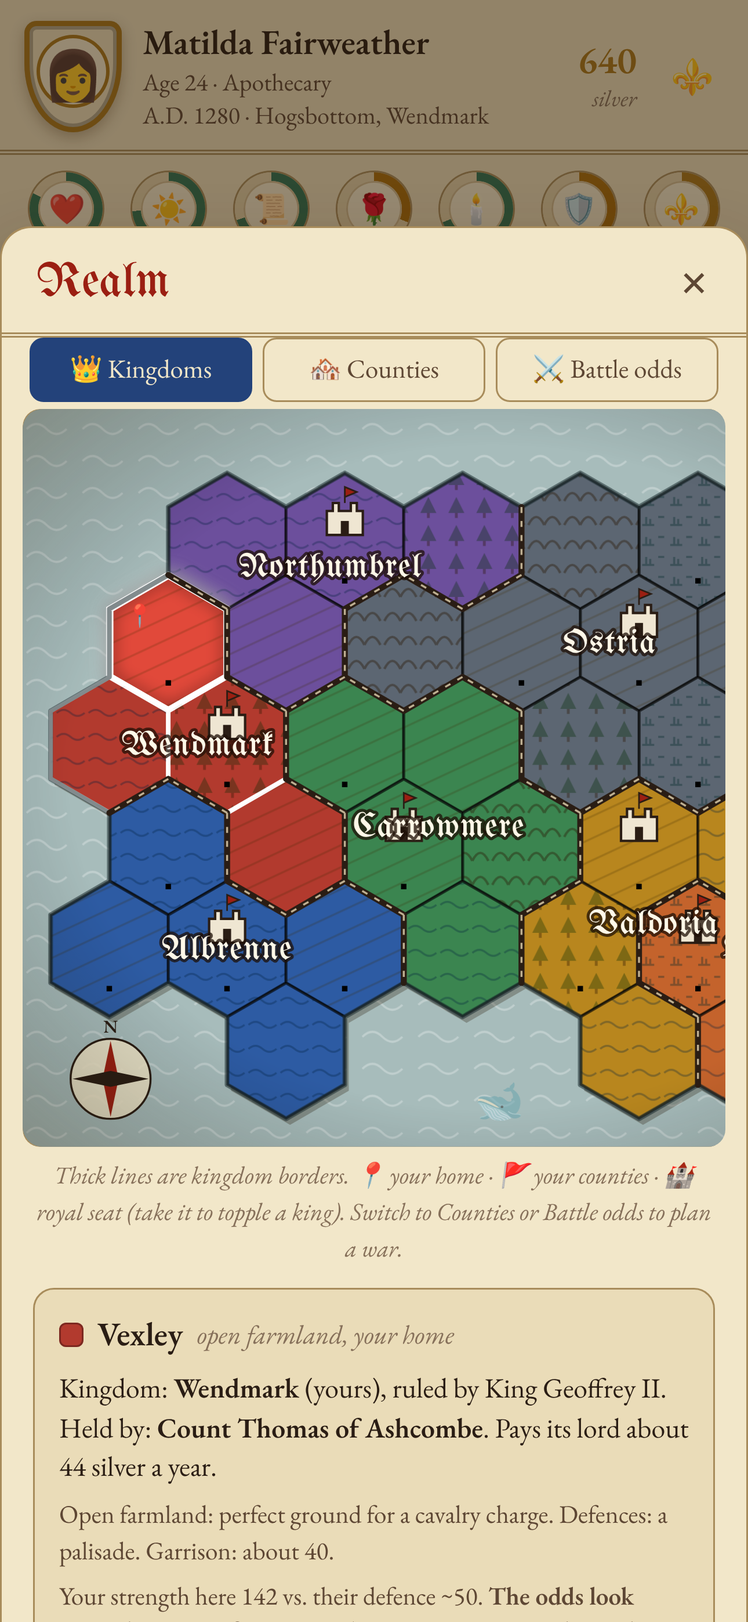
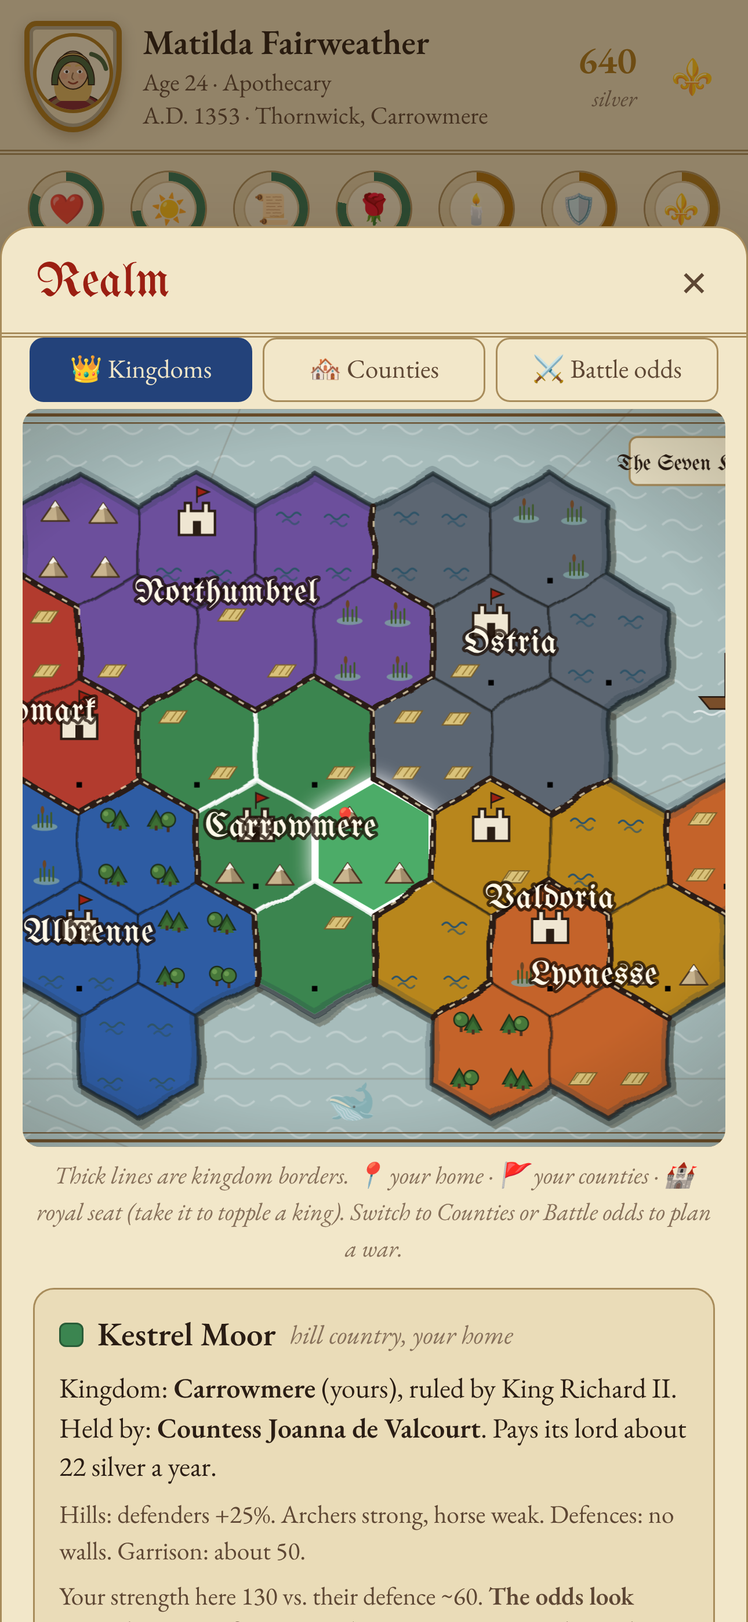
Painted portraits and a hand-drawn map
- Procedural manuscript-style portraits for the player and all kin: skin,
  hair, beards, age, mood, clothes by class, and headwear by role (crowns,
  mitres, veils, tonsures, helms, hoods, straw hats)
- Map: wobbly hand-drawn edges, drawn trees, mountains, fields, reeds and
  waves, portolan rhumb lines, a ship, and a double chart frame
- Refreshed store screenshots

Claude-Session: https://claude.ai/code/session_01Ng8y7vFwhLArsm3PAF3YVs

diff --git a/index.html b/index.html
@@ -395,6 +395,14 @@ html,body{overscroll-behavior:none}
 .tour-dots{text-align:center;color:var(--rubric);letter-spacing:4px;margin:0 0 4px}
 .inp.code{font:13px/1.35 ui-monospace,Menlo,monospace;resize:vertical;word-break:break-all}
 .crash{position:fixed;inset:0;z-index:100;display:flex;align-items:center;justify-content:center;padding:16px;background:var(--overlay)}
+
+.pt{display:block;width:100%;height:100%}
+.pt.dead{filter:grayscale(1) sepia(.35);opacity:.85}
+.arms .face{overflow:hidden;width:42px;height:42px;margin-top:-5px}
+.pic{display:block;overflow:hidden;border-radius:50%;background:radial-gradient(circle at 50% 35%,var(--vellum),var(--vellum-3));box-shadow:0 0 0 1.5px var(--rule-2)}
+.item .ic.pic{width:44px;height:44px}
+.person-h .big.pic{flex:none;width:76px;height:76px;box-shadow:0 0 0 2px var(--gold)}
+.pic.ev{width:84px;height:84px;margin:0 auto;box-shadow:0 0 0 2px var(--gold)}
 </style>
 </head>
 <body>
@@ -2600,6 +2608,24 @@ function armyHTML() {
 
 /* ---------- the map: an old hand-drawn chart ---------- */
 let mapMode = 'realm';
+// Little drawn symbols for each kind of land, placed around the county's name.
+function terrIcons(x, cx, cy) {
+  const f = n => n.toFixed(1), rnd = seeded('t' + x.id);
+  const spots = x.cap ? [[-13, 15], [12, 16]] : [[-12, -13], [12, -12], [-13, 15], [13, 15]];
+  const tree = (a, b) => rnd() < .5 ? `<path d="M${f(a)} ${f(b - 7)} l4.2 7.5 h-8.4 Z" fill="#2f5a2a" stroke="#1d2f18" stroke-width=".7"/><path d="M${f(a)} ${f(b - 4)} l3.6 6 h-7.2 Z" fill="#3c6e34"/><rect x="${f(a - .7)}" y="${f(b + .4)}" width="1.4" height="2.4" fill="#4a3020"/>` : `<rect x="${f(a - .7)}" y="${f(b - 1)}" width="1.4" height="3.6" fill="#4a3020"/><circle cx="${f(a)}" cy="${f(b - 3.6)}" r="3.6" fill="#47783a" stroke="#1d2f18" stroke-width=".7"/><circle cx="${f(a - 1.2)}" cy="${f(b - 4.6)}" r="1.3" fill="#6a9a50"/>`;
+  const mount = (a, b) => `<path d="M${f(a - 7)} ${f(b + 3)} L${f(a)} ${f(b - 7)} L${f(a + 7)} ${f(b + 3)} Z" fill="#c9b48e" stroke="#4a3622" stroke-width=".8" stroke-linejoin="round"/><path d="M${f(a)} ${f(b - 7)} L${f(a + 7)} ${f(b + 3)} H${f(a + 1)} Z" fill="rgba(60,40,20,.28)"/><path d="M${f(a - 2.2)} ${f(b - 3.8)} L${f(a)} ${f(b - 7)} L${f(a + 2.2)} ${f(b - 3.8)} L${f(a + .8)} ${f(b - 4.6)} L${f(a - .6)} ${f(b - 3.6)} Z" fill="#f5f1e6"/>`;
+  const field = (a, b) => `<path d="M${f(a - 7)} ${f(b + 2)} L${f(a - 3)} ${f(b - 4)} L${f(a + 7)} ${f(b - 4)} L${f(a + 3)} ${f(b + 2)} Z" fill="#d9c27a" stroke="#7a5f2a" stroke-width=".6"/><path d="M${f(a - 4.7)} ${f(b)} l3 -4 M${f(a - 1.5)} ${f(b + 1)} l3.6 -5 M${f(a + 1.8)} ${f(b + 1)} l3.6 -5" stroke="#9c7f38" stroke-width=".6"/>`;
+  const reeds = (a, b) => `<ellipse cx="${f(a)}" cy="${f(b + 2)}" rx="6.5" ry="2" fill="#7fa3a0" opacity=".8"/><path d="M${f(a - 3)} ${f(b + 2)} v-6 M${f(a - 1)} ${f(b + 2)} v-8 M${f(a + 1.4)} ${f(b + 2)} v-5.5 M${f(a + 3.4)} ${f(b + 2)} v-7" stroke="#3f5a2a" stroke-width=".9" stroke-linecap="round"/><ellipse cx="${f(a - 1)}" cy="${f(b - 6.4)}" rx=".9" ry="2" fill="#6b4526"/>`;
+  const waves = (a, b) => `<path d="M${f(a - 7)} ${f(b)} q2 -2.4 4 0 t4 0 t4 0" fill="none" stroke="#2f5468" stroke-width=".9" stroke-linecap="round"/><path d="M${f(a - 4)} ${f(b + 3.4)} q2 -2.4 4 0 t4 0" fill="none" stroke="#2f5468" stroke-width=".9" stroke-linecap="round" opacity=".7"/>`;
+  const draw = { forest: tree, hills: mount, plains: field, marsh: reeds, coast: waves }[x.ter];
+  let out = '';
+  for (const [dx, dy] of spots) {
+    if (x.ter === 'forest') { out += tree(cx + dx - 3, cy + dy + 1) + tree(cx + dx + 3, cy + dy + 2); }
+    else if (rnd() < (x.ter === 'plains' ? .55 : .8)) out += draw(cx + dx, cy + dy);
+  }
+  return `<g class="tex" pointer-events="none">${out}</g>`;
+}
+
 function hexOddsColor(x) {
   if (x.you) return '#d9a83a';
   if (S.ruling && x.realm === S.realm) return '#9a9284';
@@ -2622,10 +2648,14 @@ function mapSVG() {
     <pattern id="p-marsh" width="14" height="10" patternUnits="userSpaceOnUse"><path d="M2 8 h6 M4 8 v-4 M6 8 v-3 M10 4 h3" stroke="rgba(0,40,40,.35)" stroke-width="1" fill="none"/></pattern>
     <pattern id="p-coast" width="16" height="12" patternUnits="userSpaceOnUse"><path d="M1 8 q3.5 -3 7 0 t7 0" fill="none" stroke="rgba(0,30,60,.3)" stroke-width="1"/></pattern>
     <radialGradient id="g-vig" cx="50%" cy="50%" r="75%"><stop offset=".6" stop-color="rgba(0,0,0,0)"/><stop offset="1" stop-color="rgba(60,40,10,.35)"/></radialGradient>
+    <filter id="rough" x="-5%" y="-5%" width="110%" height="110%"><feTurbulence type="fractalNoise" baseFrequency=".045" numOctaves="2" seed="7" result="n"/><feDisplacementMap in="SourceGraphic" in2="n" scale="4.5"/></filter>
+    <filter id="paper"><feTurbulence type="fractalNoise" baseFrequency=".9" numOctaves="2" seed="2"/><feColorMatrix values="0 0 0 0 .35 0 0 0 0 .25 0 0 0 0 .12 0 0 0 .09 0"/><feComposite in2="SourceGraphic" operator="in"/></filter>
   </defs>`;
   s += `<rect class="sea" x="0" y="0" width="${W.toFixed(0)}" height="${H.toFixed(0)}" rx="10"/><rect x="0" y="0" width="${W.toFixed(0)}" height="${H.toFixed(0)}" rx="10" fill="url(#p-sea)"/>`;
+  // portolan rhumb lines fanning out from the compass
+  { const ox = pad + 30, oy = H - 34; let rl = ''; for (let i = 0; i < 16; i++) { const a = Math.PI * 2 * i / 16; rl += `M${f(ox)} ${f(oy)}L${f(ox + Math.cos(a) * 900)} ${f(oy + Math.sin(a) * 900)}`; } s += `<path d="${rl}" stroke="rgba(90,50,20,.16)" stroke-width=".8" pointer-events="none"/>`; }
   // land shadow, then the counties
-  for (const x of S.world.t) { const [cx, cy] = pos(x); s += `<polygon points="${[0, 1, 2, 3, 4, 5].map(i => vtx(cx + 2, cy + 3, i).map(f).join(',')).join(' ')}" fill="rgba(40,25,5,.28)"/>`; }
+  s += '<g filter="url(#rough)">'; for (const x of S.world.t) { const [cx, cy] = pos(x); s += `<polygon points="${[0, 1, 2, 3, 4, 5].map(i => vtx(cx + 2, cy + 3, i, 1.06).map(f).join(',')).join(' ')}" fill="rgba(40,25,5,.3)"/>`; } s += '</g>';
   for (const x of S.world.t) {
     const [cx, cy] = pos(x);
     const pts = [0, 1, 2, 3, 4, 5].map(i => vtx(cx, cy, i, .995).map(f).join(',')).join(' ');
@@ -2633,7 +2663,7 @@ function mapSVG() {
     const fill = mapMode === 'war' ? hexOddsColor(x) : REALM_COL[x.realm];
     const dim = mapMode === 'war' && !reach && !x.you ? ' style="opacity:.45"' : '';
     const cls = ['hex', x.realm === S.realm && !x.you ? 'ours' : '', x.you ? 'mine' : '', x.id === selHex ? 'sel' : ''].join(' ');
-    s += `<g class="${cls}" data-act="hex" data-arg="${x.id}" tabindex="0" role="button" aria-label="${esc(x.n)}, ${x.realm}${x.you ? ', yours' : ''}"${dim}><polygon points="${pts}" fill="${fill}"/><polygon points="${pts}" fill="url(#p-${x.ter})" class="tex"/>`;
+    s += `<g class="${cls}" data-act="hex" data-arg="${x.id}" tabindex="0" role="button" aria-label="${esc(x.n)}, ${x.realm}${x.you ? ', yours' : ''}"${dim}><polygon points="${pts}" fill="${fill}" filter="url(#rough)"/>${mapMode !== 'war' ? terrIcons(x, cx, cy) : `<polygon points="${pts}" fill="url(#p-${x.ter})" class="tex" opacity=".6"/>`}`;
     if (x.cap) s += `<g transform="translate(${f(cx - 9)} ${f(cy - 21)})" class="castle"><path d="M0 18 V6 h3 v-4 h3 v4 h6 v-4 h3 v4 h3 V18 Z" fill="#efe6d2" stroke="#2a1d14" stroke-width="1.2"/><rect x="7" y="11" width="4" height="7" fill="#2a1d14"/><path d="M9 2 V-6 l6 2.5 -6 2.5" fill="#9b1f12" stroke="#2a1d14" stroke-width=".8"/></g>`;
     if (x.walls) s += `<text class="hx-b" x="${f(cx)}" y="${f(cy + r * .62)}">${'▪'.repeat(x.walls)}</text>`;
     if (mapMode === 'counties') {
@@ -2657,8 +2687,8 @@ function mapSVG() {
       if (!y) coast += seg; else if (y.realm !== x.realm && x.id < y.id) border += seg;
     }
   }
-  s += `<path d="${coast}" fill="none" stroke="rgba(30,45,50,.55)" stroke-width="2.4" stroke-linecap="round" pointer-events="none"/>`;
-  s += `<path d="${border}" fill="none" stroke="#2a1d14" stroke-width="3" stroke-linecap="round" pointer-events="none"/><path d="${border}" fill="none" stroke="rgba(255,240,200,.7)" stroke-width="1" stroke-dasharray="3 4" pointer-events="none"/>`;
+  s += `<g filter="url(#rough)" pointer-events="none"><path d="${coast}" fill="none" stroke="rgba(30,60,70,.22)" stroke-width="7" stroke-linecap="round"/><path d="${coast}" fill="none" stroke="rgba(30,45,50,.7)" stroke-width="2.2" stroke-linecap="round"/></g>`;
+  s += `<path d="${border}" fill="none" stroke="#2a1d14" stroke-width="3" stroke-linecap="round" pointer-events="none" filter="url(#rough)"/><path d="${border}" fill="none" stroke="rgba(255,240,200,.7)" stroke-width="1" stroke-dasharray="3 4" pointer-events="none"/>`;
   // kingdom names
   if (mapMode === 'realm') {
     for (const realm of [...new Set(S.world.t.map(x => x.realm))]) {
@@ -2670,6 +2700,9 @@ function mapSVG() {
   s += `<g transform="translate(${f(pad + 30)} ${f(H - 34)})" class="compass" pointer-events="none"><circle r="20" fill="rgba(242,231,201,.85)" stroke="#2a1d14" stroke-width="1"/><path d="M0 -19 L4 0 L0 19 L-4 0 Z" fill="#9b1f12"/><path d="M-19 0 L0 -4 L19 0 L0 4 Z" fill="#2a1d14"/><text y="-23" text-anchor="middle" font-size="9" font-weight="700" fill="#2a1d14">N</text></g>`;
   s += `<g transform="translate(${f(W - 92)} ${f(14)})" pointer-events="none"><rect width="82" height="24" rx="4" fill="rgba(242,231,201,.92)" stroke="#a88c5b"/><text x="41" y="16.5" text-anchor="middle" class="map-title">The Seven Kingdoms</text></g>`;
   s += `<text x="${f(pad + w * 3.6)}" y="${f(H - 16)}" font-size="20" opacity=".55" pointer-events="none">🐋</text>`;
+  // a cog under sail, and a double frame like a printed chart
+  s += `<g transform="translate(${f(W - 44)} ${f(pad + top + r * 1.5 * 2 + 6)})" pointer-events="none"><path d="M-13 4 h26 l-5 6 h-16 Z" fill="#7a4e2a" stroke="#2a1d14" stroke-width=".8"/><path d="M0 4 V-18" stroke="#2a1d14" stroke-width="1.1"/><path d="M1 -17 q10 9 0 19 Z" fill="#f2e7c9" stroke="#2a1d14" stroke-width=".8"/><path d="M0 -18 l7 2 -7 2" fill="#9b1f12"/><path d="M-16 12 q3 -2 6 0 t6 0 t6 0 t6 0 t6 0" fill="none" stroke="rgba(255,255,255,.6)" stroke-width="1"/></g>`;
+  s += `<rect x="3" y="3" width="${f(W - 6)}" height="${f(H - 6)}" rx="8" fill="none" stroke="#6b4e2a" stroke-width="1.6" pointer-events="none"/><rect x="7" y="7" width="${f(W - 14)}" height="${f(H - 14)}" rx="6" fill="none" stroke="#6b4e2a" stroke-width=".6" pointer-events="none"/>`;
   s += `<rect x="0" y="0" width="${W.toFixed(0)}" height="${H.toFixed(0)}" rx="10" fill="url(#g-vig)" pointer-events="none"/>`;
   return s + '</svg>';
 }
@@ -3432,6 +3465,138 @@ EVENTS.push(
     ] },
 );
 
+/* ================= Portraits: painted in the manner of a manuscript ================= */
+// Each person gets a face drawn from a seed (their name or id), so they look the same all their life,
+// and the face changes with age, sex, station and trade: crowns, mitres, veils, helms and straw hats.
+function seeded(str) {
+  let h = 1779033703 ^ String(str).length;
+  for (let i = 0; i < String(str).length; i++) { h = Math.imul(h ^ String(str).charCodeAt(i), 3432918353); h = (h << 13) | (h >>> 19); }
+  return () => { h = Math.imul(h ^ (h >>> 16), 2246822507); h = Math.imul(h ^ (h >>> 13), 3266489909); h ^= h >>> 16; return (h >>> 0) / 4294967296; };
+}
+const SKINS = ['#f3d9c0', '#ecc8a6', '#e0b48c', '#cf9b72', '#b07a52', '#8a5a3a'];
+const HAIRS = ['#2a1d14', '#4a3020', '#6b4526', '#8c5a2b', '#b5823c', '#d9b25e', '#a5432a'];
+const GOLD = '#d9a83a', GOLD_D = '#7a5410', INK = '#2a1d14';
+function roleOf(p) {
+  const j = (p.job || '').toLowerCase();
+  if (p.crown) return 'crown';
+  if (/^(king|queen|emperor|empress)\b/.test(j)) return 'crown';
+  if (/prince|princess|maid of honour|lady-in-waiting/.test(j) || p.cls === 'royal') return 'circlet';
+  if (/bishop|archbishop|cardinal|pope/.test(j)) return 'mitre';
+  if (/nun|prioress|abbess|novice/.test(j)) return 'veil';
+  if (/monk|prior|abbot|priest|chorister|choirboy/.test(j)) return p.sex === 'm' ? 'tonsure' : 'veil';
+  if (/knight|marshal|squire|baron at arms|duke at|constable|general/.test(j)) return 'helm';
+  if (/soldier|spear|archer|crossbow|man-at-arms|sergeant|captain|watchman|mercenary|veteran|camp/.test(j)) return 'kettle';
+  if (/^(lord|lady|count|duke|baron)/.test(j) || p.cls === 'noble') return p.sex === 'm' ? 'noblehat' : 'circlet';
+  if (/merchant|trader|vintner|goldsmith|jeweler|silk|guild|innkeeper|shopkeeper|apothecary|physician|chancellor|adviser|treasurer|judge|magistrate|diplomat|steward/.test(j)) return 'hood';
+  if (/farm|peasant|serf|plough|shepherd|herd|swine|cow|goose|scarer|hay|thatcher/.test(j)) return 'straw';
+  if (/miner|quarry|ditch|road|porter|hauler|dock|smith|mason|stone|carpenter|woodcutter|charcoal|labor|builder|tanner|butcher|miller/.test(j)) return p.sex === 'm' ? 'coif' : 'kerchief';
+  if (/scholar|professor|clerk|scribe|copyist|teacher|schoolmaster/.test(j)) return 'cap';
+  return '';
+}
+function clothesOf(p, role) {
+  if (role === 'crown' || p.cls === 'royal') return 'royal';
+  if (['mitre', 'tonsure'].includes(role) || (role === 'veil' && /nun|prioress|abbess|novice/i.test(p.job || ''))) return 'clergy';
+  if (role === 'helm' || role === 'kettle') return 'mail';
+  if (p.cls === 'noble') return 'noble';
+  if (p.cls === 'merchant' || role === 'hood') return 'merchant';
+  return 'common';
+}
+const CLOTH = { serf: '#6b5238', peasant: '#5f6b3a', craft: '#4c5d70', merchant: '#7a2430', noble: '#23427a', royal: '#5c2a6e' };
+function portraitSVG(p) {
+  const rnd = seeded(p.seed || p.name || 'x');
+  const skin = SKINS[Math.floor(rnd() * SKINS.length)];
+  let hair = HAIRS[Math.floor(rnd() * HAIRS.length)];
+  const age = p.age || 0, m = p.sex === 'm';
+  if (age >= 68) hair = '#e8e4dc'; else if (age >= 52) hair = '#a59a8c';
+  let role = p.role != null ? p.role : roleOf(p);
+  if (!role && p.sex === 'f' && age >= 48 && p.cls !== 'royal' && p.cls !== 'noble') role = 'veil';
+  const clothes = clothesOf(p, role);
+  const beard = m && age >= 19 && rnd() < .62, bald = m && age >= 45 && rnd() < .4;
+  const longHair = !m && rnd() < .85, braids = !m && age < 14 && rnd() < .5;
+  const mood = p.mood == null ? 1 : p.mood; // 0 sad, 1 calm, 2 smile
+  const baby = age < 3, child = age < 13;
+  const hx = 32, hy = baby ? 33 : child ? 31 : 28, rx = baby ? 12.5 : child ? 11.5 : 10.5, ry = baby ? 12 : child ? 12.5 : 13;
+  let s = '';
+  // body and clothes
+  const cloth = clothes === 'royal' ? CLOTH.royal : clothes === 'noble' ? CLOTH.noble : clothes === 'merchant' ? CLOTH.merchant : clothes === 'clergy' ? (role === 'mitre' ? '#f2eee4' : '#3a2e26') : clothes === 'mail' ? '#8a8f96' : CLOTH[p.cls] || CLOTH.peasant;
+  if (baby) {
+    s += `<path d="M10 64 C12 50 20 44 32 44 C44 44 52 50 54 64 Z" fill="#efe8da" stroke="${INK}" stroke-width=".8"/><path d="M14 56 q18 -8 36 0" fill="none" stroke="#c9bfae" stroke-width="1.2"/>`;
+  } else {
+    s += `<rect x="${hx - 4}" y="${hy + ry - 4}" width="8" height="9" fill="${skin}"/>`;
+    s += `<path d="M6 64 C8 ${child ? 52 : 50} 19 ${child ? 46 : 44} 32 ${child ? 46 : 44} C45 ${child ? 46 : 44} 56 ${child ? 52 : 50} 58 64 Z" fill="${cloth}" stroke="${INK}" stroke-width=".8"/>`;
+    if (clothes === 'mail') s += `<path d="M10 64 C12 52 21 46 32 46 C43 46 52 52 54 64" fill="url(#pt-mail)" opacity=".7"/><path d="M26 47 L32 64 L38 47" fill="${p.tabard || '#9b1f12'}" stroke="${INK}" stroke-width=".6"/>`;
+    if (clothes === 'royal') s += `<path d="M15 52 C20 47 26 46 32 46 C38 46 44 47 49 52 L46 55 C41 51 36 50 32 50 C28 50 23 51 18 55 Z" fill="#f4f0e6" stroke="${INK}" stroke-width=".5"/><circle cx="22" cy="51.5" r=".8" fill="#111"/><circle cx="28" cy="49.5" r=".8" fill="#111"/><circle cx="36" cy="49.5" r=".8" fill="#111"/><circle cx="42" cy="51.5" r=".8" fill="#111"/>`;
+    if (clothes === 'noble') s += `<path d="M20 49 Q32 54 44 49" fill="none" stroke="${GOLD}" stroke-width="1.6"/><circle cx="32" cy="55" r="1.8" fill="${GOLD}" stroke="${GOLD_D}" stroke-width=".5"/>`;
+    if (clothes === 'merchant') s += `<path d="M17 52 C22 47 27 46 32 46 C37 46 42 47 47 52" fill="none" stroke="#8a6a4a" stroke-width="3"/>`;
+    if (clothes === 'clergy' && role !== 'mitre') s += `<path d="M27 46 h10 v3 h-10 z" fill="#f2eee4"/>`;
+    if (clothes === 'clergy' && role === 'mitre') s += `<path d="M30 46 v18 M24 52 h16" stroke="${GOLD}" stroke-width="2"/>`;
+    if (clothes === 'common') s += `<path d="M27 45 L32 52 L37 45" fill="none" stroke="rgba(0,0,0,.35)" stroke-width="1"/>`;
+  }
+  // hair behind the head
+  if (!baby && longHair && !['veil', 'helm', 'kettle'].includes(role)) s += `<path d="M${hx - rx - 2} ${hy - 2} C${hx - rx - 4} ${hy + 14} ${hx - rx - 1} ${hy + 20} ${hx - rx + 2} ${hy + 21} L${hx + rx - 2} ${hy + 21} C${hx + rx + 1} ${hy + 20} ${hx + rx + 4} ${hy + 14} ${hx + rx + 2} ${hy - 2} Z" fill="${hair}"/>`;
+  if (role === 'veil') s += `<path d="M${hx - rx - 4} ${hy - 6} C${hx - rx - 6} ${hy + 14} ${hx - rx - 3} ${hy + 22} ${hx - rx} ${hy + 24} L${hx + rx} ${hy + 24} C${hx + rx + 3} ${hy + 22} ${hx + rx + 6} ${hy + 14} ${hx + rx + 4} ${hy - 6} C${hx + rx} ${hy - 18} ${hx - rx} ${hy - 18} ${hx - rx - 4} ${hy - 6} Z" fill="${/nun|abbess|prioress|novice/i.test(p.job || '') ? '#2b2420' : '#efe9dc'}" stroke="${INK}" stroke-width=".6"/>`;
+  // ears and head
+  if (!baby) s += `<ellipse cx="${hx - rx}" cy="${hy + 1}" rx="2" ry="3" fill="${skin}" stroke="rgba(0,0,0,.25)" stroke-width=".5"/><ellipse cx="${hx + rx}" cy="${hy + 1}" rx="2" ry="3" fill="${skin}" stroke="rgba(0,0,0,.25)" stroke-width=".5"/>`;
+  s += `<ellipse cx="${hx}" cy="${hy}" rx="${rx}" ry="${ry}" fill="${skin}" stroke="${INK}" stroke-width=".8"/>`;
+  if (role === 'veil') s += `<path d="M${hx - rx + 1} ${hy + 6} C${hx - rx + 2} ${hy + 15} ${hx + rx - 2} ${hy + 15} ${hx + rx - 1} ${hy + 6} L${hx + rx + 1} ${hy + 14} C${hx + 6} ${hy + 20} ${hx - 6} ${hy + 20} ${hx - rx - 1} ${hy + 14} Z" fill="#f7f3ea" stroke="${INK}" stroke-width=".5"/>`;
+  // cheeks
+  s += `<circle cx="${hx - 6}" cy="${hy + 4}" r="2.4" fill="#d9605a" opacity="${child ? .32 : .2}"/><circle cx="${hx + 6}" cy="${hy + 4}" r="2.4" fill="#d9605a" opacity="${child ? .32 : .2}"/>`;
+  // eyes, brows, nose, mouth
+  const ey = hy + (baby ? 0 : 1), es = baby ? 1.5 : child ? 1.6 : 1.3;
+  if (p.dead) s += `<path d="M${hx - 6} ${ey} h3 M${hx + 3} ${ey} h3" stroke="${INK}" stroke-width="1.1"/>`;
+  else s += `<ellipse cx="${hx - 4.5}" cy="${ey}" rx="${es + .7}" ry="${es}" fill="#fff"/><ellipse cx="${hx + 4.5}" cy="${ey}" rx="${es + .7}" ry="${es}" fill="#fff"/><circle cx="${hx - 4.3}" cy="${ey + .1}" r="${es * .75}" fill="${INK}"/><circle cx="${hx + 4.7}" cy="${ey + .1}" r="${es * .75}" fill="${INK}"/>`;
+  if (!baby) s += `<path d="M${hx - 7} ${ey - 3.5} q2.5 -1.6 5 -.4 M${hx + 2} ${ey - 3.9} q2.5 -1.2 5 .4" fill="none" stroke="${age >= 52 ? '#8f877c' : hair === '#e8e4dc' ? '#bbb' : hair}" stroke-width="1.2" stroke-linecap="round"/>`;
+  s += `<path d="M${hx} ${ey + 1} q-1.6 3.6 .2 4.4" fill="none" stroke="rgba(60,30,10,.55)" stroke-width=".9" stroke-linecap="round"/>`;
+  const my = hy + (baby ? 6 : 8);
+  s += mood >= 2 ? `<path d="M${hx - 3} ${my} q3 2.6 6 0" fill="none" stroke="#8c3a2a" stroke-width="1.1" stroke-linecap="round"/>` : mood <= 0 ? `<path d="M${hx - 3} ${my + 1} q3 -2 6 0" fill="none" stroke="#8c3a2a" stroke-width="1.1" stroke-linecap="round"/>` : `<path d="M${hx - 2.6} ${my} h5.2" stroke="#8c3a2a" stroke-width="1.1" stroke-linecap="round"/>`;
+  if (age >= 50) s += `<path d="M${hx - 9} ${ey + 1} l-1.6 -.6 M${hx - 9} ${ey + 2.2} l-1.6 .5 M${hx + 9} ${ey + 1} l1.6 -.6 M${hx + 9} ${ey + 2.2} l1.6 .5 M${hx - 4} ${hy - 9} q4 -1 8 0" fill="none" stroke="rgba(60,30,10,.35)" stroke-width=".7"/>`;
+  // beard and moustache
+  if (beard && role !== 'veil') {
+    const full = rnd() < .6;
+    s += full ? `<path d="M${hx - rx + .5} ${hy + 2} C${hx - rx + 1} ${hy + ry + 5} ${hx + rx - 1} ${hy + ry + 5} ${hx + rx - .5} ${hy + 2} C${hx + rx - 3} ${hy + 9} ${hx + 4} ${hy + 10} ${hx} ${hy + 10.5} C${hx - 4} ${hy + 10} ${hx - rx + 3} ${hy + 9} ${hx - rx + .5} ${hy + 2} Z" fill="${hair}" stroke="${INK}" stroke-width=".5"/>` : `<path d="M${hx - 3} ${hy + 10} q3 6 6 0 q-3 1.6 -6 0" fill="${hair}"/>`;
+    s += `<path d="M${hx - 4.5} ${my - 1} q2.2 -1.8 4.5 -.6 q2.3 -1.2 4.5 .6 q-2.2 .6 -4.5 -.1 q-2.3 .7 -4.5 .1" fill="${hair}" stroke="${INK}" stroke-width=".4"/>`;
+  }
+  // hair on top
+  const top = hy - ry;
+  if (baby) s += `<path d="M${hx - rx - 1} ${hy + 2} C${hx - rx - 2} ${top - 4} ${hx + rx + 2} ${top - 4} ${hx + rx + 1} ${hy + 2} C${hx + 7} ${top + 3} ${hx - 7} ${top + 3} ${hx - rx - 1} ${hy + 2} Z" fill="#f7f3ea" stroke="${INK}" stroke-width=".7"/><path d="M${hx - rx} ${hy + 3} q-2 4 -4 5 M${hx + rx} ${hy + 3} q2 4 4 5" stroke="#c9bfae" stroke-width="1.2" fill="none"/>`;
+  else if (role === 'tonsure') s += `<path d="M${hx - rx - .5} ${hy - 2} C${hx - rx} ${top + 4} ${hx - 6} ${top + 1} ${hx - 5} ${top + 4} C${hx - 2} ${top + 6} ${hx + 2} ${top + 6} ${hx + 5} ${top + 4} C${hx + 6} ${top + 1} ${hx + rx} ${top + 4} ${hx + rx + .5} ${hy - 2} C${hx + rx - 2} ${hy - 6} ${hx - rx + 2} ${hy - 6} ${hx - rx - .5} ${hy - 2} Z" fill="${hair}" stroke="${INK}" stroke-width=".5"/>`;
+  else if (!['veil', 'helm', 'kettle'].includes(role)) {
+    if (bald) s += `<path d="M${hx - rx - .5} ${hy - 1} C${hx - rx} ${hy - 7} ${hx - rx + 3} ${hy - 7} ${hx - rx + 4} ${hy - 4} M${hx + rx + .5} ${hy - 1} C${hx + rx} ${hy - 7} ${hx + rx - 3} ${hy - 7} ${hx + rx - 4} ${hy - 4}" fill="${hair}" stroke="${hair}" stroke-width="2.4"/>`;
+    else if (m) { const fringe = rnd() < .5; s += `<path d="M${hx - rx - 1} ${hy - 1} C${hx - rx - 2} ${top - 3} ${hx + rx + 2} ${top - 3} ${hx + rx + 1} ${hy - 1} C${hx + rx - 1} ${hy - 5} ${hx + 5} ${top + (fringe ? 7 : 4)} ${hx + 1} ${top + (fringe ? 8 : 5)} C${hx - 3} ${top + (fringe ? 9 : 5)} ${hx - rx + 1} ${hy - 6} ${hx - rx - 1} ${hy - 1} Z" fill="${hair}" stroke="${INK}" stroke-width=".6"/>`; }
+    else s += `<path d="M${hx - rx - 1.5} ${hy + 1} C${hx - rx - 3} ${top - 3} ${hx + rx + 3} ${top - 3} ${hx + rx + 1.5} ${hy + 1} C${hx + rx - 1} ${hy - 5} ${hx + 3} ${top + 3} ${hx} ${top + 4} C${hx - 3} ${top + 3} ${hx - rx + 1} ${hy - 5} ${hx - rx - 1.5} ${hy + 1} Z" fill="${hair}" stroke="${INK}" stroke-width=".6"/>${braids ? `<path d="M${hx - rx - 1} ${hy + 4} v12 M${hx + rx + 1} ${hy + 4} v12" stroke="${hair}" stroke-width="3.4" stroke-linecap="round"/>` : ''}`;
+  }
+  // headwear
+  if (role === 'crown') s += `<path d="M${hx - 11} ${top + 5} L${hx - 12} ${top - 6} L${hx - 6} ${top - 1} L${hx} ${top - 9} L${hx + 6} ${top - 1} L${hx + 12} ${top - 6} L${hx + 11} ${top + 5} Z" fill="${GOLD}" stroke="${GOLD_D}" stroke-width=".9"/><circle cx="${hx}" cy="${top + 1.5}" r="1.8" fill="#9b1f12"/><circle cx="${hx - 6.5}" cy="${top + 2}" r="1.3" fill="#23427a"/><circle cx="${hx + 6.5}" cy="${top + 2}" r="1.3" fill="#2f7253"/><circle cx="${hx}" cy="${top - 9}" r="1.3" fill="${GOLD}" stroke="${GOLD_D}" stroke-width=".5"/>`;
+  if (role === 'circlet') s += `<path d="M${hx - rx + .5} ${top + 7} Q${hx} ${top + 3} ${hx + rx - .5} ${top + 7}" fill="none" stroke="${GOLD}" stroke-width="2"/><circle cx="${hx}" cy="${top + 4.6}" r="1.4" fill="#9b1f12" stroke="${GOLD_D}" stroke-width=".4"/>`;
+  if (role === 'mitre') s += `<path d="M${hx - 9} ${top + 6} L${hx - 7} ${top - 12} L${hx} ${top - 6} L${hx + 7} ${top - 12} L${hx + 9} ${top + 6} Z" fill="#f2eee4" stroke="${INK}" stroke-width=".8"/><path d="M${hx} ${top - 4} v9 M${hx - 3} ${top} h6" stroke="${GOLD}" stroke-width="1.6"/><path d="M${hx - 9} ${top + 4} h18" stroke="${GOLD}" stroke-width="1.6"/>`;
+  if (role === 'noblehat') s += `<path d="M${hx - 12} ${top + 4} C${hx - 12} ${top - 7} ${hx + 12} ${top - 7} ${hx + 12} ${top + 4} Z" fill="${p.hatColor || '#23427a'}" stroke="${INK}" stroke-width=".7"/><path d="M${hx - 12.5} ${top + 4} h25" stroke="#e8e0cf" stroke-width="3" stroke-linecap="round"/><path d="M${hx + 6} ${top - 2} q6 -6 9 -2" fill="none" stroke="#e9e4d6" stroke-width="1.6"/>`;
+  if (role === 'hood') s += `<path d="M${hx - rx - 4} ${hy + 10} C${hx - rx - 6} ${top - 4} ${hx + rx + 6} ${top - 4} ${hx + rx + 4} ${hy + 10} L${hx + rx} ${hy + 10} C${hx + rx + 1} ${top + 2} ${hx - rx - 1} ${top + 2} ${hx - rx} ${hy + 10} Z" fill="${p.cls === 'merchant' ? '#7a2430' : '#3f5f3a'}" stroke="${INK}" stroke-width=".7"/><path d="M${hx + rx + 2} ${top + 2} q8 2 10 10" fill="none" stroke="${p.cls === 'merchant' ? '#7a2430' : '#3f5f3a'}" stroke-width="3" stroke-linecap="round"/>`;
+  if (role === 'straw') s += `<ellipse cx="${hx}" cy="${top + 4}" rx="${rx + 9}" ry="3.6" fill="#e2c46a" stroke="${GOLD_D}" stroke-width=".8"/><path d="M${hx - 8} ${top + 4} C${hx - 8} ${top - 6} ${hx + 8} ${top - 6} ${hx + 8} ${top + 4} Z" fill="#e8cd7a" stroke="${GOLD_D}" stroke-width=".8"/><path d="M${hx - 8} ${top + 1.5} h16" stroke="#9b1f12" stroke-width="1.4"/>`;
+  if (role === 'coif') s += `<path d="M${hx - rx - 1} ${hy + 4} C${hx - rx - 2} ${top - 3} ${hx + rx + 2} ${top - 3} ${hx + rx + 1} ${hy + 4} C${hx + rx - 1} ${top + 4} ${hx - rx + 1} ${top + 4} ${hx - rx - 1} ${hy + 4} Z" fill="#efe8da" stroke="${INK}" stroke-width=".6"/><path d="M${hx - rx} ${hy + 4} q2 8 6 10 M${hx + rx} ${hy + 4} q-2 8 -6 10" stroke="#efe8da" stroke-width="1.4" fill="none"/>`;
+  if (role === 'kerchief') s += `<path d="M${hx - rx - 2} ${hy} C${hx - rx - 2} ${top - 4} ${hx + rx + 2} ${top - 4} ${hx + rx + 2} ${hy} C${hx + 5} ${top + 3} ${hx - 5} ${top + 3} ${hx - rx - 2} ${hy} Z" fill="#b8452f" stroke="${INK}" stroke-width=".6"/><circle cx="${hx - 3}" cy="${top + 1}" r=".8" fill="#f3e2b0"/><circle cx="${hx + 3}" cy="${top}" r=".8" fill="#f3e2b0"/>`;
+  if (role === 'cap') s += `<path d="M${hx - rx} ${top + 5} C${hx - rx} ${top - 4} ${hx + rx} ${top - 4} ${hx + rx} ${top + 5} Z" fill="#1f1a17" stroke="${INK}" stroke-width=".6"/>`;
+  if (role === 'kettle') s += `<ellipse cx="${hx}" cy="${top + 5}" rx="${rx + 7}" ry="3" fill="#8f949b" stroke="${INK}" stroke-width=".8"/><path d="M${hx - rx} ${top + 5} C${hx - rx} ${top - 7} ${hx + rx} ${top - 7} ${hx + rx} ${top + 5} Z" fill="#a8adb4" stroke="${INK}" stroke-width=".8"/><path d="M${hx - 3} ${top - 3} q3 -2 6 0" stroke="#dfe3e8" stroke-width="1.2" fill="none"/>`;
+  if (role === 'helm') s += `<path d="M${hx - rx - 2} ${hy + 12} C${hx - rx - 3} ${top - 6} ${hx + rx + 3} ${top - 6} ${hx + rx + 2} ${hy + 12} L${hx + rx - 1} ${hy + 12} C${hx + rx} ${hy - 3} ${hx + 7} ${top + 6} ${hx} ${top + 6} C${hx - 7} ${top + 6} ${hx - rx} ${hy - 3} ${hx - rx + 1} ${hy + 12} Z" fill="#9aa0a8" stroke="${INK}" stroke-width=".8"/><path d="M${hx - rx - 2} ${hy + 10} C${hx - 8} ${hy + 18} ${hx + 8} ${hy + 18} ${hx + rx + 2} ${hy + 10}" fill="url(#pt-mail)" stroke="${INK}" stroke-width=".6"/><path d="M${hx} ${top - 5} q8 -6 13 1" fill="none" stroke="${p.plume || '#9b1f12'}" stroke-width="2.4" stroke-linecap="round"/>`;
+  const defs = '<defs><pattern id="pt-mail" width="3" height="3" patternUnits="userSpaceOnUse"><circle cx="1.5" cy="1.5" r="1.1" fill="none" stroke="#5e636a" stroke-width=".6"/></pattern></defs>';
+  return `<svg class="pt${p.dead ? ' dead' : ''}" viewBox="10 5 44 50" aria-hidden="true">${defs}${s}</svg>`;
+}
+// Portrait of the player, or of anyone in their kin.
+function playerPortrait() {
+  const role = S.ruling || S.flags.consort ? 'crown' : (inTrack('church') && S.job.level >= 4) ? 'mitre' : (inTrack('church') || inTrack('priest')) ? (S.sex === 'm' && S.job.level >= 1 ? 'tonsure' : 'veil') : (S.flags.knight || inTrack('knight')) && S.age >= 16 ? 'helm' : isMil() ? 'kettle' : S.flags.disguise ? 'coif' : null;
+  const p = { seed: `${S.first} ${S.last} ${S.born}`, sex: S.flags.disguise ? 'm' : S.sex, age: S.age, cls: S.cls, job: S.job ? jobTitle() : (S.cls === 'royal' ? ws('Prince', 'Princess') : ''), dead: !S.alive, mood: S.stats.happy >= 60 ? 2 : S.stats.happy < 30 ? 0 : 1, tabard: REALM_COL[S.realm] };
+  if (role) p.role = role;
+  if (S.age < 3) p.role = '';
+  if (hist() && S.sex === 'f' && !role && S.age >= 18 && S.kin.some(k => k.sp) && S.cls !== 'royal') p.role = 'veil';
+  return portraitSVG(p);
+}
+function kinPortrait(k) {
+  const role = k.ruler ? 'crown' : null;
+  const p = { seed: k.id + k.name, sex: k.sex, age: k.age, cls: k.cls, job: k.job || '', dead: !k.alive, mood: k.rv ? 0 : k.bond >= 65 ? 2 : k.bond < 30 ? 0 : 1 };
+  if (role) p.role = role;
+  if (k.age < 3) p.role = '';
+  return portraitSVG(p);
+}
+
 /* ================= Interface ================= */
 const Q = [];
 let workTab = 'low', workFilter = 'all', jobId = null;
@@ -3716,7 +3881,7 @@ function deedsHTML() {
 }
 function kinItem(k) {
   const sub = k.alive ? `${relOf(k)}, age ${k.age}${k.job ? `, ${/^(King|Queen|Lord|Lady)\b/.test(k.job) ? k.job : k.job.toLowerCase()}` : ''}` : `${relOf(k)}, died ${k.cause || ''} aged ${k.died}`;
-  return `<button class="item${k.alive ? '' : ' dead'}" data-act="${k.alive ? 'person' : 'noop'}" data-arg="${k.id}"><span class="ic" aria-hidden="true">${k.alive ? faceFor(k.sex, k.age) : '🪦'}</span><span class="tx"><b>${esc(fullName(k))}</b><small>${esc(sub)}</small>${k.alive ? `<span class="bar" role="img" aria-label="Relationship ${k.bond}%"><i class="${barCls(k.bond)}" style="width:${k.bond}%"></i></span>` : ''}</span>${k.alive ? '<span class="rt chev" aria-hidden="true">›</span>' : ''}</button>`;
+  return `<button class="item${k.alive ? '' : ' dead'}" data-act="${k.alive ? 'person' : 'noop'}" data-arg="${k.id}"><span class="ic pic" aria-hidden="true">${kinPortrait(k)}</span><span class="tx"><b>${esc(fullName(k))}</b><small>${esc(sub)}</small>${k.alive ? `<span class="bar" role="img" aria-label="Relationship ${k.bond}%"><i class="${barCls(k.bond)}" style="width:${k.bond}%"></i></span>` : ''}</span>${k.alive ? '<span class="rt chev" aria-hidden="true">›</span>' : ''}</button>`;
 }
 function kinHTML() {
   const groups = [['Parents', k => k.par], ['Spouse', k => k.sp], ['Children', k => k.ch], ['Siblings', k => k.sib], ['Friends', k => k.fr], ['Rivals', k => k.rv]];
@@ -3733,7 +3898,7 @@ function personHTML(k) {
   const used = k.lastYear === S.year;
   const ok = !S.alive ? 'You are dead' : S.jail ? 'You are imprisoned' : used ? `You have already spent time with ${k.name} this year` : true;
   let h = btnItem('back', '', '‹', 'All kin', '', true);
-  h += `<div class="person-h"><span class="big" aria-hidden="true">${faceFor(k.sex, k.age)}</span><div><b>${esc(relOf(k))}, age ${k.age}</b>${k.job ? `<small>${esc(k.job)}</small>` : ''}<div class="bar" role="img" aria-label="Relationship ${k.bond}%"><i class="${barCls(k.bond)}" style="width:${k.bond}%"></i></div><small>Relationship: ${k.bond}%</small></div></div>`;
+  h += `<div class="person-h"><span class="big pic" aria-hidden="true">${kinPortrait(k)}</span><div><b>${esc(relOf(k))}, age ${k.age}</b>${k.job ? `<small>${esc(k.job)}</small>` : ''}<div class="bar" role="img" aria-label="Relationship ${k.bond}%"><i class="${barCls(k.bond)}" style="width:${k.bond}%"></i></div><small>Relationship: ${k.bond}%</small></div></div>`;
   h += btnItem('kin', `${k.id}:time`, '🫂', 'Spend time together', 'A walk, a meal, a story.', ok);
   h += btnItem('kin', `${k.id}:gift`, '🎁', 'Give a gift', 'Costs 2 silver.', ok !== true ? ok : S.coin < 2 ? 'Costs 2 silver' : true);
   if (k.par && S.age >= 6) h += btnItem('kin', `${k.id}:ask`, '🪙', 'Ask for silver', 'They might say yes.', ok);
@@ -3950,7 +4115,7 @@ function kinAct(arg) {
   if (a === 'woo') { S.kin = S.kin.filter(x => x !== k); k.fr = 0; k.looks = k.looks || R(20, 80); if (P(.25 + k.bond / 200)) { marry(k); t = `${k.name} said yes before you finished asking. You were wed within the month.`; } else { k.fr = 1; S.kin.push(k); bond(k, -4); st('happy', -5); t = `${k.name} laughed kindly. "We are friends, you fool." It stung.`; } }
   if (a === 'quarrel') { bond(k, -R(8, 15)); st('happy', P(.5) ? 3 : -3); t = `You and ${k.name} had a blazing row about ${pick(['the inheritance', 'a missing goose', 'nothing at all', 'who left the gate open', 'your choice of friends'])}.`; }
   const fx = FX; FX = null;
-  say(t); closeSheet(); showResult(faceFor(k.sex, k.age), t, fx, fullName(k)); render(); save();
+  say(t); closeSheet(); showResult(`<span class="pic ev">${kinPortrait(k)}</span>`, t, fx, fullName(k)); render(); save();
 }
 
 function doArmy(k) {
@@ -4128,7 +4293,7 @@ function render() {
   if (!S) return;
   const royalFace = (S.ruling || S.cls === 'royal') && S.age >= 15;
   const bdg = badge();
-  $('avatar').textContent = faceFor(S.sex, S.age, royalFace);
+  $('avatar').innerHTML = playerPortrait();
   const ob = $('arms').querySelector('.badge'); if (ob) ob.remove();
   if (bdg) $('arms').insertAdjacentHTML('beforeend', `<span class="badge">${bdg}</span>`);
   $('name').textContent = displayName();
@@ -4198,8 +4363,8 @@ function showDeath() {
   closeSheet();
   const g = S.dead.grade || legacy(), kids = children();
   const lineage = S.lineage.length ? `<p class="hint center">Of the line of ${esc(S.lineage.map(x => `${x.n} ${x.e}`).join(', then '))}.</p>` : '';
-  const heirs = kids.length ? `<h3 class="sec">Continue your line</h3>${kids.sort((a, b) => b.age - a.age).map(k => `<button class="item" data-s="heir" data-id="${k.id}"><span class="ic" aria-hidden="true">${faceFor(k.sex, k.age)}</span><span class="tx"><b>Live as ${esc(k.name)}</b><small>Your ${relOf(k).toLowerCase()}, age ${k.age}</small></span><span class="rt chev" aria-hidden="true">›</span></button>`).join('')}` : '<p class="hint center">You leave no living children. Your line ends here.</p>';
-  showScreen(`<div class="start"><div class="stone"><div class="arms" style="${armsStyle(S.last)}"><span class="face">✝</span></div><div class="rip">Here lies</div><h2>${esc(displayName())}</h2><div class="epi">${esc(S.epithet)}</div><div class="yrs">${S.born} – ${S.year}</div><p class="cause">Died ${esc(S.dead.cause)}, aged ${S.age}.</p></div><div class="grass" aria-hidden="true"></div>
+  const heirs = kids.length ? `<h3 class="sec">Continue your line</h3>${kids.sort((a, b) => b.age - a.age).map(k => `<button class="item" data-s="heir" data-id="${k.id}"><span class="ic pic" aria-hidden="true">${kinPortrait(k)}</span><span class="tx"><b>Live as ${esc(k.name)}</b><small>Your ${relOf(k).toLowerCase()}, age ${k.age}</small></span><span class="rt chev" aria-hidden="true">›</span></button>`).join('')}` : '<p class="hint center">You leave no living children. Your line ends here.</p>';
+  showScreen(`<div class="start"><div class="stone"><div class="arms" style="${armsStyle(S.last)}"><span class="face">${playerPortrait()}</span></div><div class="rip">Here lies</div><h2>${esc(displayName())}</h2><div class="epi">${esc(S.epithet)}</div><div class="yrs">${S.born} – ${S.year}</div><p class="cause">Died ${esc(S.dead.cause)}, aged ${S.age}.</p></div><div class="grass" aria-hidden="true"></div>
   <dl class="summary"><div><dt>Station</dt><dd>${esc(roleLabel())}</dd></div><div><dt>Purse</dt><dd>${S.coin} silver</dd></div><div><dt>Counties</dt><dd>${heldTs().length}</dd></div><div><dt>Renown</dt><dd>${S.stats.renown}</dd></div><div><dt>Joy</dt><dd>${S.stats.happy}</dd></div><div><dt>Legacy</dt><dd><span class="grade">${g[1]}</span> ${g[0]}</dd></div></dl>
   ${(S.feats || []).length ? `<h3 class="sec">Seals earned in this life</h3><div class="chips">${S.feats.map(k => { const f = FEATS.find(x => x.k === k); return f ? `<span class="chip tag">${f.i} ${esc(f.n)}</span>` : ''; }).join('')}</div>` : ''}${lineage}${heirs}<div class="stack"><button class="btn${kids.length ? ' ghost' : ''}" data-s="random">Begin a new life</button><button class="btn ghost" data-s="chron">Read your chronicle</button><button class="btn ghost" data-s="grave">The graveyard</button></div></div>`);
 }

diff --git a/sw.js b/sw.js
@@ -1,5 +1,5 @@
 // Offline support: keep the game's files cached so it plays without a connection.
-const CACHE = 'mudcrowns-v2';
+const CACHE = 'mudcrowns-v3';
 const FILES = ['./', './index.html', './manifest.webmanifest', './icons/icon-192.png', './icons/icon-512.png', './fonts/fonts.css',
   './fonts/EBGaramond-normal-400.woff2', './fonts/EBGaramond-italic-400.woff2', './fonts/UnifrakturMaguntia-normal-400.woff2'];
 self.addEventListener('install', e => { e.waitUntil(caches.open(CACHE).then(c => c.addAll(FILES)).then(() => self.skipWaiting())); });
